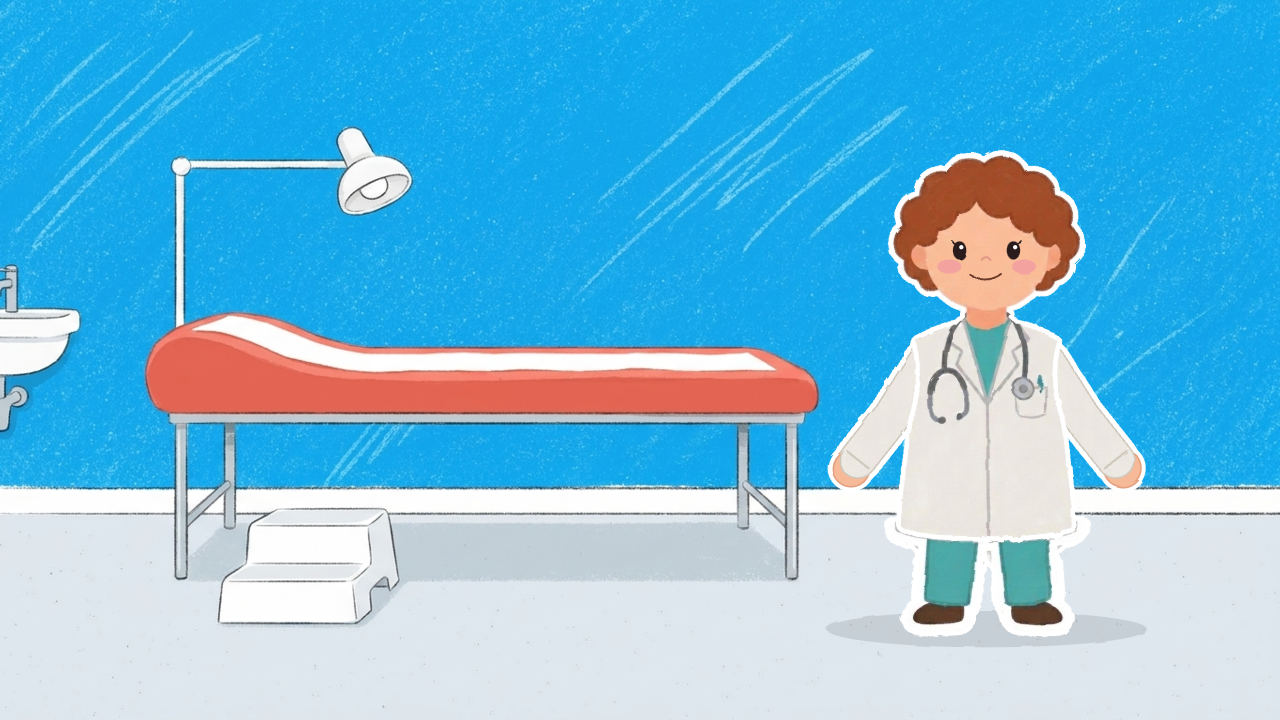
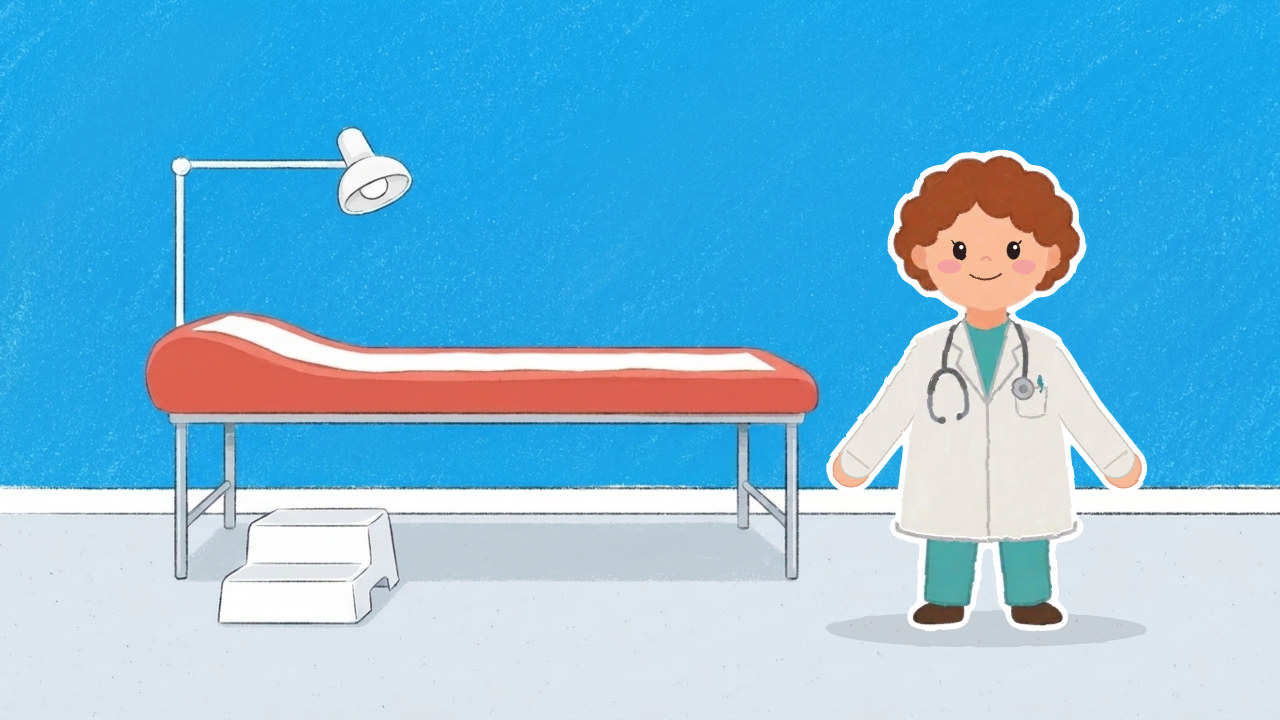
Doktorn A: en jämn vit kant runt hela figuren (#dkant, kantlösa delar). Mottagningen v2: D utan kritstreck och handfat

diff --git a/assets/karaktarer/doktorn-a/premium/uttryck.html b/assets/karaktarer/doktorn-a/premium/uttryck.html
@@ -21,6 +21,17 @@
       <feTurbulence id="brus" type="fractalNoise" baseFrequency="0.025" numOctaves="2" seed="1"/>
       <feDisplacementMap in="SourceGraphic" scale="5"/>
     </filter>
+    <!-- Doktorns vita kant (Sanna 2026-11-20: "polish dr white rim"): EN jämn kant runt hela figuren i stället för delarnas inbakade
+         kanter (de var olika tjocka och gav vita bulor vid rockens fåll). Delarna är kantlösa kopior (cut/*-nk.png). Alfan suddas och
+         skärs av vid ca 5 %, så kanten blir rund och ca 12 enheter bred (≈ 10 px i bild på SKALA 0,8), med lite kritkorn som kant.js. -->
+    <filter id="dkant" x="-0.15" y="-0.1" width="1.3" height="1.2" color-interpolation-filters="sRGB">
+      <feGaussianBlur in="SourceAlpha" stdDeviation="7" result="b"/>
+      <feComponentTransfer in="b" result="d"><feFuncA type="linear" slope="30" intercept="-1.5"/></feComponentTransfer>
+      <feTurbulence type="fractalNoise" baseFrequency="0.35" numOctaves="1" seed="2" result="k"/>
+      <feColorMatrix in="k" type="matrix" values="0 0 0 0 1  0 0 0 0 1  0 0 0 0 1  0 0 0 -0.25 1.2" result="kk"/>
+      <feComposite in="kk" in2="d" operator="in" result="vit"/>
+      <feMerge><feMergeNode in="vit"/><feMergeNode in="SourceGraphic"/></feMerge>
+    </filter>
     <pattern id="rock" patternUnits="userSpaceOnUse" width="128" height="128"><image href="cut/doktorn-a-rock-tile.png" width="128" height="128"/></pattern>
   </defs>
   <defs>
@@ -148,14 +159,14 @@ const blanda = blandare(NEUTRAL, UTTRYCK), blandaPose = blandare(POSE0, POSER), 
 
 function figur(x, y, skala) {                 // Mor med fötterna i (x, y)
   const g = document.createElementNS('http://www.w3.org/2000/svg', 'g'), id = document.querySelectorAll('#figurer > g').length;
-  const del = (n, fil = n) => `<image class="${n}" href="cut/doktorn-a-${fil}.png" width="1024" height="1024"/>`;
+  const del = (n, fil = n) => `<image class="${n}" href="cut/doktorn-a-${fil}-nk.png" width="1024" height="1024"/>`;   // kantlösa delar, kanten är #dkant
   g.setAttribute('transform', `translate(${x} ${y}) scale(${skala}) translate(-512 ${-FOTTER})`);
   // arm-l2/arm-r2: kopior av armarna för riktningsposen (båda armarna ut på samma sida, den ena under den andra).
   g.innerHTML = `<ellipse class="skugga" cx="512" cy="${FOTTER - 14}" rx="300" ry="34" fill="#000" opacity="0.1"/>
-    <g class="figuren">${['leg-l', 'leg-r'].map(n => del(n)).join('')}
+    <g class="figuren" filter="url(#dkant)">${['leg-l', 'leg-r'].map(n => del(n)).join('')}
     <g class="armar-bak"></g>
-    <g class="kropp"><image href="cut/doktorn-a-body.png" width="1024" height="1024"/>
-    <g class="drag"><image href="cut/doktorn-a-head.png" width="1024" height="1024"/><g class="ansiktet" transform="${ANSIKTE}">
+    <g class="kropp"><image href="cut/doktorn-a-body-nk.png" width="1024" height="1024"/>
+    <g class="drag"><image href="cut/doktorn-a-head-nk.png" width="1024" height="1024"/><g class="ansiktet" transform="${ANSIKTE}">
     <path class="nasa" transform="translate(0 ${NOSY})" d="M498 420 Q510.5 404 523 420" fill="none" stroke="${NASA}" stroke-width="6" stroke-linecap="round"/>
     ${KINDER.map(([x, y]) => `<ellipse class="kind" cx="${x}" cy="${y}" rx="34" ry="20" fill="${KIND}"/>`).join('')}
     ${OGON.map((_, i) => { const o = i ? 1 : -1; return `<g class="oga">
@@ -183,7 +194,7 @@ function figur(x, y, skala) {                 // Mor med fötterna i (x, y)
 
 // Armen med armbåge (prov i armar-test.html): s −1 vänster, 1 höger; v1, v2 över- och underarmens vinkel i grader från rakt ner,
 // + utåt från kroppen. S axellederna, L1/L2 längderna, W ärmens bredd, fram [v1, v2] vinklarna framför rocken (händerna på magen).
-const ARM = { S: { l: [398, 462], r: [626, 462] }, L1: 118, L2: 104, W: 66, HAND: 35, RING: 9, fram: [14, -64],
+const ARM = { S: { l: [398, 462], r: [626, 462] }, L1: 118, L2: 104, W: 66, HAND: 35, RING: 5, fram: [14, -64],   // RING: bara armar framför rocken (skiljelinjen mot rocken); ytterkanten är figurens #dkant
   KANT: '#cfc8bc', HUD: '#f7ba99', HUDKANT: '#e3a07f' };
 function armRita(s, sx, sy, v1, v2, fram) {
   const r = g => g * Math.PI / 180, { L1, L2, W, HAND, RING, KANT, HUD, HUDKANT } = ARM;
@@ -194,7 +205,7 @@ function armRita(s, sx, sy, v1, v2, fram) {
   const rd = `M${sx + (ex - sx) * k} ${sy + (ey - sy) * k} L${ex} ${ey} L${hx} ${hy}`;
   const mx = 26 * Math.cos(r(v2)), my = s * 26 * Math.sin(r(v2));
   return { hand: [cx, cy], svg: `<g stroke-linecap="round" stroke-linejoin="round" fill="none">
-    <path d="${rd}" stroke="#fff" stroke-width="${W + 2 * RING + 6}"/><circle cx="${cx}" cy="${cy}" r="${HAND + RING}" fill="#fff"/>
+    ${fram ? `<path d="${rd}" stroke="#fff" stroke-width="${W + 2 * RING + 6}"/><circle cx="${cx}" cy="${cy}" r="${HAND + RING}" fill="#fff"/>` : ''}
     <circle cx="${cx}" cy="${cy}" r="${HAND}" fill="${HUD}" stroke="${HUDKANT}" stroke-width="3"/>
     <path d="${d}" stroke="${KANT}" stroke-width="${W + 6}"/><path d="${d}" stroke="url(#rock)" stroke-width="${W}"/>
     <path d="M${hx - mx} ${hy + my} L${hx + mx} ${hy - my}" stroke="${KANT}" stroke-width="4"/></g>` };

diff --git a/bakgrunder/mottagningen.md b/bakgrunder/mottagningen.md
@@ -14,11 +14,11 @@ Inget fönster, inga gardiner, ingen växt, inga tavlor, inga kors (rödakorsmä
 
 Stetoskopet och öronlampan är egna urklipp (grind 2, `rekvisita/`). Vågen och linjalen från receptets "andra moment" kommer inte med i piloten.
 
-**Bild som används (vald av Sanna 2026-11-20): alternativ D**, `assets/bakgrunder/mottagningen/mottagningen-v1.jpg` (1376×768, original `original/mottagningen-d1.jpg`): himmelsblå vägg, vit golvlist, korallröd brits med papper och höjd huvudända, tunn öppen metallram, vit pall, en vit undersökningslampa på väggarm ovanför britsens vänstra ände, handfatet avskuret i vänsterkanten. Nästa: en redigering utan kritstreck och utan handfat (prompten längst ner). Jämförelse med alla tagningar: `original/jamforelse.jpg`.
+**Bild som används: `assets/bakgrunder/mottagningen/mottagningen-v2.jpg`** (2026-11-20): D redigerad i Flow, utan kritstreck på väggen och utan handfat (original `original/mottagningen-d2.jpg`). **v1** = alternativ D (vald av Sanna 2026-11-20), `mottagningen-v1.jpg` (1376×768, original `original/mottagningen-d1.jpg`): himmelsblå vägg, vit golvlist, korallröd brits med papper och höjd huvudända, tunn öppen metallram, vit pall, en vit undersökningslampa på väggarm ovanför britsens vänstra ände, handfatet avskuret i vänsterkanten. Nästa: en redigering utan kritstreck och utan handfat (prompten längst ner). Jämförelse med alla tagningar: `original/jamforelse.jpg`.
 
 Tidigare plan (alternativ A): Google Flow, Nano Banana Pro, 16:9, 0 krediter, Sanna kör Flow själv. Bild 1 = `assets/bakgrunder/vardagsrummet/vardagsrummet-v2.jpeg` (bara stilreferens, kopia i `~/Downloads/mottagningen-stilref-vardagsrummet.jpg`). Fyra tagningar. Lägg tagningarna i `assets/bakgrunder/mottagningen/original/`.
 
-**Mått i bilden (1376×768, D, ungefärliga, mät om efter redigeringen):** golvlisten ca y 520–545, golvet från ca y 545 (71 %). Britsens dyna x 160–878, överkant ca y 370 (huvudändan till vänster upp till ca 335). Ramens ben till ca y 615. Pallen x 238–432, översta steget ca y 545, golvet under den ca y 665. Lampan x 190–445, y 135–345. Ramen under britsen är öppen, så **nallen syns om den gömmer sig under britsen**: gömstället blir bakom pallen (örat tittar fram över pallens kant) eller en mask. I 1920×1080: doktorn på x 1480, fötterna y 955, **SKALA 0,8** (Sanna 2026-11-20: större doktor; ca två tredjedelar av bildens höjd), kontroll `doktorn-i-mottagningen.png`.
+**Mått i bilden (1376×768, D, ungefärliga, mät om efter redigeringen):** golvlisten ca y 520–545, golvet från ca y 545 (71 %). Britsens dyna x 160–878, överkant ca y 370 (huvudändan till vänster upp till ca 335). Ramens ben till ca y 615. Pallen x 238–432, översta steget ca y 545, golvet under den ca y 665. Lampan x 190–445, y 135–345. Ramen under britsen är öppen, så **nallen syns om den gömmer sig under britsen**: gömstället blir bakom pallen (örat tittar fram över pallens kant) eller en mask. I 1920×1080: doktorn på x 1480, fötterna y 955, **SKALA 0,8** (Sanna 2026-11-20: större doktor; ca två tredjedelar av bildens höjd), kontroll `doktorn-i-mottagningen.png` (på v2).
 
 ```prompt
 Image 1 is a STYLE reference only: copy its flat crayon technique, its straight-on composition and its floor line, not its colours, its wooden floor or its furniture. Background plate for a bright, friendly, clean toddler cartoon doctor's examination room, wide 16:9, completely flat, static straight-on view, no perspective. The top part is one flat, BOLD, cheerful turquoise wall (#2EB5B0) filled edge to edge with a dense grainy oil-pastel and wax-crayon texture and a few loose, light, thin diagonal scratchy crayon streaks in a lighter turquoise. Across the whole wall at about 62% of the image height runs one straight clean white crayon stripe like a hospital wall rail. In the middle of the picture, standing on the floor, one long, low doctor's examination bench seen exactly from the front: a smooth rounded cushion in deep friendly blue (#3A7CC9) with a strip of plain white paper lying along its top, the paper coming from a small white paper roll at the left end, standing on a simple thin silver metal frame with two straight legs, with OPEN EMPTY floor visible under the whole bench between the legs. The top of the bench is at about half the image height and the bench spans from about 30% to 66% of the image width. In front of the left end of the bench, one small white two-step plastic step stool, about half as high as the bench. On the wall at the far left, one small simple white wash basin with a silver tap and a white soap dispenser on the wall above it. On the wall above the bench, one tall narrow height-measuring chart made of a vertical column of rounded blocks in bright sunny yellow, coral, green and blue, no numbers. The bottom part is a smooth, clean, very light grey-blue vinyl floor (#DCE6EC) with a fine speckle and only the faintest crayon grain, meeting the wall at one straight horizontal line with a slightly rough hand-drawn crayon edge, at about 75% of the image height. The whole right third of the picture is empty wall and floor, with space for a character who is added later. No characters, no people, no animals, no toys, no plants, no curtains, no rugs, no pictures, no window, no medical tools, no syringes, no cross symbols, no text, no letters, no numbers, no shadows, no glow.

diff --git a/karaktarer/doktorn-a.md b/karaktarer/doktorn-a.md
@@ -10,6 +10,8 @@
 >
 > **Armar med armbåge i kod** (Sanna 2026-11-20: urklippsarmarna var stela och rötterna syntes; armbågsarmarna "much better"): överärm och underarm i rockens egen krita (`cut/doktorn-a-rock-tile.png`), grå kant, manschettstreck och en rund hand, ritade av `armRita()` i `uttryck.html` (provet: `premium/armar-test.html`). Axelleden är rund och sitter strax innanför rockens kant (398, 462) och (626, 462), så ingen rot syns i någon vinkel. `armar` lyfter armen och armbågen böjs uppåt ju högre den lyfts (vinka, hurra); `armbage` böjer underarmen extra (håller fram, sträcker sig). `fram` lägger armen framför rocken utan vit kant vid axeln (magen, stetoskopet, klappen). Klappen är egen (`ROR.klappa`). Urklippsarmarna i `cut/` används inte längre. Kontroll: `premium/doktorn-a-poser.png`, testfilmen `premium/doktorn-a-testfilm.mp4` (git-ignorerad).
 >
+> **Vit kant (Sanna 2026-11-20: "polish dr white rim"):** EN jämn kant runt hela figuren, filtret `#dkant` på `.figuren` i `uttryck.html` (alfan suddas och skärs av, ca 12 enheter ≈ 10 px i bild på SKALA 0,8, lite kritkorn). Delarnas inbakade kanter var olika tjocka och gav vita bulor vid fållen, så sidan använder kantlösa kopior `cut/doktorn-a-{body,head,leg-l,leg-r}-nk.png` (den vita kanten, det bleka brynet och lösa kritsmulor bortplockade). Armar bakom rocken har ingen egen kant; armar framför rocken har en smal vit skiljelinje mot rocken.
+>
 > **Ansikte i kod** (Mors kod, skalad 0,66 runt huvudet): ögon (435, 399) och (588, 399), kinder (406, 443) och (618, 443), leendet y 480.
 >
 > **Uttryck, poser och testfilm:** [`premium/uttryck.html`](../assets/karaktarer/doktorn-a/premium/uttryck.html), samma API som Mor (`ansikte`, `pose`, `rorelse`, `?ark=poser`, `?film=1`). Riktningsposerna vänder bara huvudet, armarna stannar på var sin sida. Klappen möts lågt på rocken. **Sitta, sova och ligga ser konstiga ut med de långa benen**, men doktorn står alltid still (receptet).
